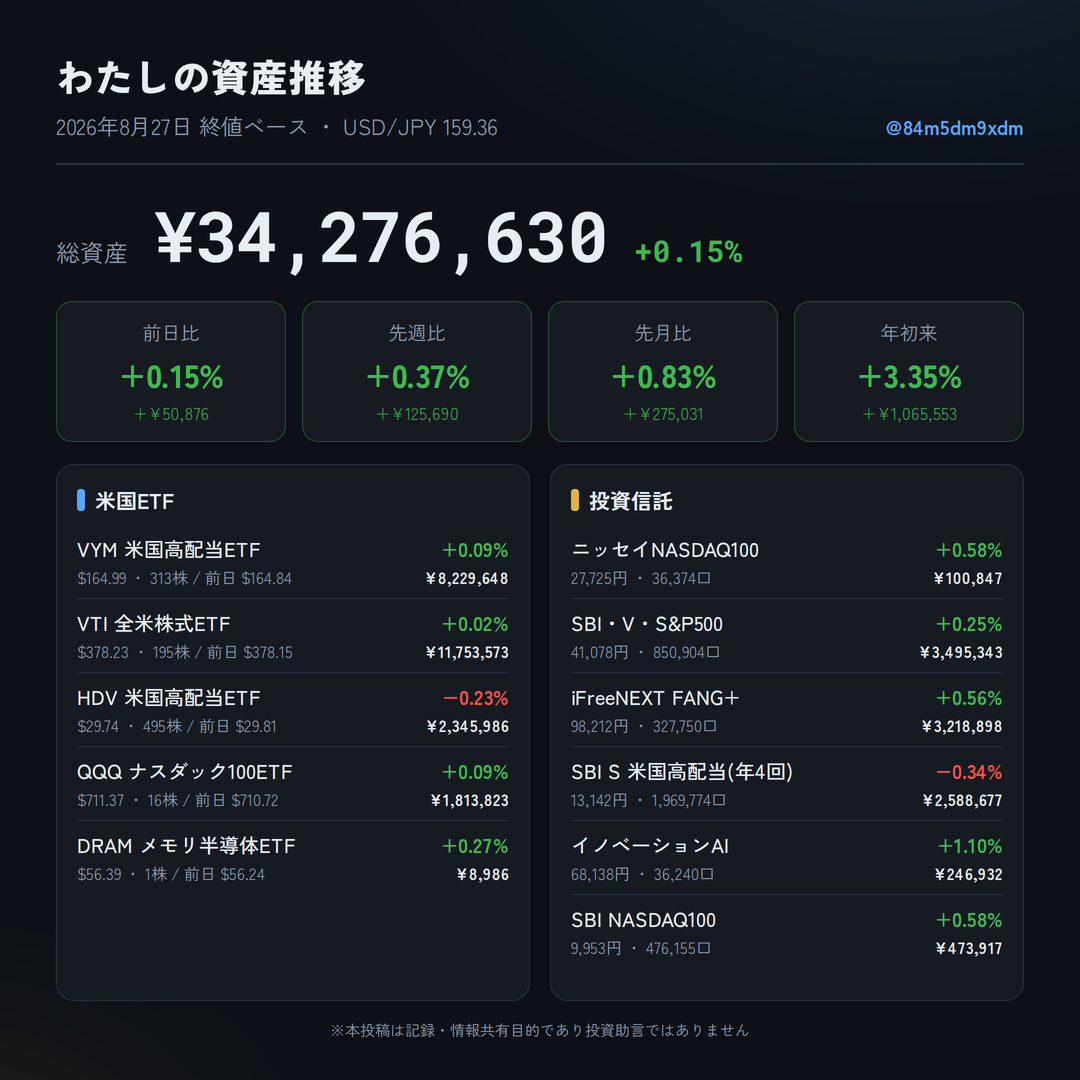
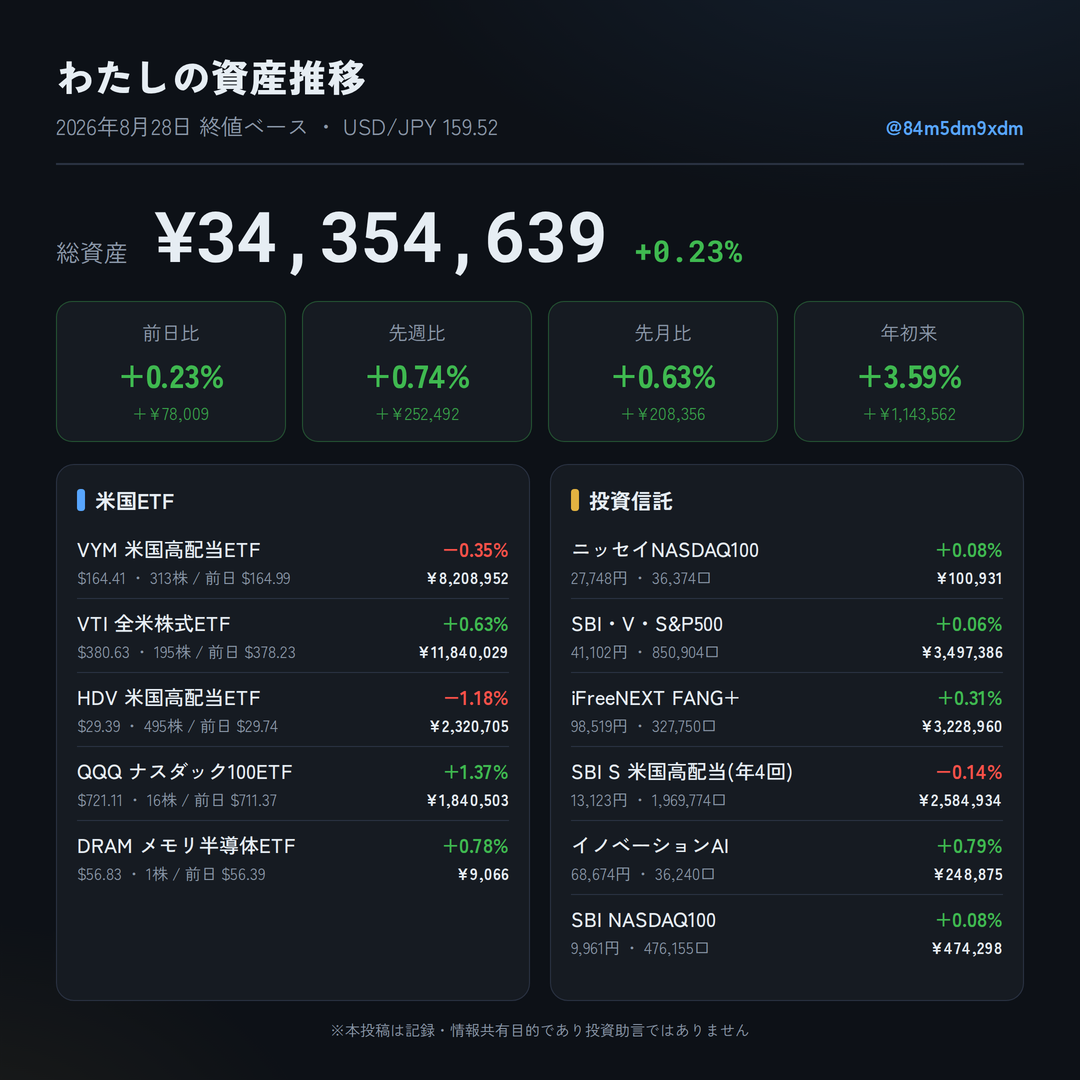
update: 2026-08-28

diff --git a/slide/allocation.html b/slide/allocation.html
@@ -54,21 +54,21 @@ footer { margin-top:18px; text-align:center; font-size:15px; color:var(--dim); }
   <header>
     <div>
       <div class="title">わたしの資産推移｜資産構成</div>
-      <div class="date">2026年8月27日 時点</div>
+      <div class="date">2026年8月28日 時点</div>
     </div>
     <div class="acct">@84m5dm9xdm</div>
   </header>
 
   <div class="total-wrap">
     <span class="total-label">総資産</span>
-    <span class="total mono">¥34,276,630</span>
+    <span class="total mono">¥34,354,639</span>
   </div>
 
   <div class="cols">
     <div class="panel cat">
       <div class="panel-h">資産タイプ別</div>
       <div class="donut-wrap">
-        <svg viewBox="0 0 300 300" xmlns="http://www.w3.org/2000/svg"><circle cx="150.0" cy="150.0" r="127.0" fill="none" stroke="#58a6ff" stroke-width="46" stroke-dasharray="562.262 235.702" stroke-dashoffset="-0.000" transform="rotate(-90 150.0 150.0)"/><circle cx="150.0" cy="150.0" r="127.0" fill="none" stroke="#e3b341" stroke-width="46" stroke-dasharray="235.702 562.262" stroke-dashoffset="-562.262" transform="rotate(-90 150.0 150.0)"/></svg>
+        <svg viewBox="0 0 300 300" xmlns="http://www.w3.org/2000/svg"><circle cx="150.0" cy="150.0" r="127.0" fill="none" stroke="#58a6ff" stroke-width="46" stroke-dasharray="562.547 235.417" stroke-dashoffset="-0.000" transform="rotate(-90 150.0 150.0)"/><circle cx="150.0" cy="150.0" r="127.0" fill="none" stroke="#e3b341" stroke-width="46" stroke-dasharray="235.417 562.547" stroke-dashoffset="-562.547" transform="rotate(-90 150.0 150.0)"/></svg>
         <div class="donut-center">
           <div class="dc-big">ETF 70%</div>
           <div class="dc-sub">投信 30%</div>
@@ -79,87 +79,87 @@ footer { margin-top:18px; text-align:center; font-size:15px; color:var(--dim); }
           <span class="dot" style="background:#58a6ff"></span>
           <span class="lg-name">米国ETF</span>
           <span class="lg-pct">70.5%</span>
-          <span class="lg-jpy">¥24,152,016</span>
+          <span class="lg-jpy">¥24,219,255</span>
         </div>
         <div class="lg">
           <span class="dot" style="background:#e3b341"></span>
           <span class="lg-name">投資信託</span>
           <span class="lg-pct">29.5%</span>
-          <span class="lg-jpy">¥10,124,614</span>
+          <span class="lg-jpy">¥10,135,384</span>
         </div>
     </div>
 
     <div class="panel sym">
       <div class="panel-h">銘柄別</div>
       <div class="donut-wrap small">
-        <svg viewBox="0 0 260 260" xmlns="http://www.w3.org/2000/svg"><circle cx="130.0" cy="130.0" r="110.0" fill="none" stroke="#58a6ff" stroke-width="40" stroke-dasharray="236.998 454.153" stroke-dashoffset="-0.000" transform="rotate(-90 130.0 130.0)"/><circle cx="130.0" cy="130.0" r="110.0" fill="none" stroke="#3fb950" stroke-width="40" stroke-dasharray="165.942 525.209" stroke-dashoffset="-236.998" transform="rotate(-90 130.0 130.0)"/><circle cx="130.0" cy="130.0" r="110.0" fill="none" stroke="#56d4dd" stroke-width="40" stroke-dasharray="70.480 620.671" stroke-dashoffset="-402.940" transform="rotate(-90 130.0 130.0)"/><circle cx="130.0" cy="130.0" r="110.0" fill="none" stroke="#79c0ff" stroke-width="40" stroke-dasharray="64.906 626.245" stroke-dashoffset="-473.419" transform="rotate(-90 130.0 130.0)"/><circle cx="130.0" cy="130.0" r="110.0" fill="none" stroke="#e3b341" stroke-width="40" stroke-dasharray="52.198 638.953" stroke-dashoffset="-538.325" transform="rotate(-90 130.0 130.0)"/><circle cx="130.0" cy="130.0" r="110.0" fill="none" stroke="#f0883e" stroke-width="40" stroke-dasharray="47.304 643.846" stroke-dashoffset="-590.523" transform="rotate(-90 130.0 130.0)"/><circle cx="130.0" cy="130.0" r="110.0" fill="none" stroke="#db61a2" stroke-width="40" stroke-dasharray="36.574 654.577" stroke-dashoffset="-637.827" transform="rotate(-90 130.0 130.0)"/><circle cx="130.0" cy="130.0" r="110.0" fill="none" stroke="#bc8cff" stroke-width="40" stroke-dasharray="9.556 681.594" stroke-dashoffset="-674.401" transform="rotate(-90 130.0 130.0)"/><circle cx="130.0" cy="130.0" r="110.0" fill="none" stroke="#58a6ff" stroke-width="40" stroke-dasharray="4.979 686.171" stroke-dashoffset="-683.957" transform="rotate(-90 130.0 130.0)"/><circle cx="130.0" cy="130.0" r="110.0" fill="none" stroke="#3fb950" stroke-width="40" stroke-dasharray="2.033 689.117" stroke-dashoffset="-688.936" transform="rotate(-90 130.0 130.0)"/><circle cx="130.0" cy="130.0" r="110.0" fill="none" stroke="#56d4dd" stroke-width="40" stroke-dasharray="0.181 690.969" stroke-dashoffset="-690.969" transform="rotate(-90 130.0 130.0)"/></svg>
+        <svg viewBox="0 0 260 260" xmlns="http://www.w3.org/2000/svg"><circle cx="130.0" cy="130.0" r="110.0" fill="none" stroke="#58a6ff" stroke-width="40" stroke-dasharray="238.199 452.951" stroke-dashoffset="-0.000" transform="rotate(-90 130.0 130.0)"/><circle cx="130.0" cy="130.0" r="110.0" fill="none" stroke="#3fb950" stroke-width="40" stroke-dasharray="165.149 526.002" stroke-dashoffset="-238.199" transform="rotate(-90 130.0 130.0)"/><circle cx="130.0" cy="130.0" r="110.0" fill="none" stroke="#56d4dd" stroke-width="40" stroke-dasharray="70.361 620.790" stroke-dashoffset="-403.348" transform="rotate(-90 130.0 130.0)"/><circle cx="130.0" cy="130.0" r="110.0" fill="none" stroke="#79c0ff" stroke-width="40" stroke-dasharray="64.961 626.190" stroke-dashoffset="-473.708" transform="rotate(-90 130.0 130.0)"/><circle cx="130.0" cy="130.0" r="110.0" fill="none" stroke="#e3b341" stroke-width="40" stroke-dasharray="52.004 639.146" stroke-dashoffset="-538.669" transform="rotate(-90 130.0 130.0)"/><circle cx="130.0" cy="130.0" r="110.0" fill="none" stroke="#f0883e" stroke-width="40" stroke-dasharray="46.688 644.462" stroke-dashoffset="-590.673" transform="rotate(-90 130.0 130.0)"/><circle cx="130.0" cy="130.0" r="110.0" fill="none" stroke="#db61a2" stroke-width="40" stroke-dasharray="37.027 654.123" stroke-dashoffset="-637.361" transform="rotate(-90 130.0 130.0)"/><circle cx="130.0" cy="130.0" r="110.0" fill="none" stroke="#bc8cff" stroke-width="40" stroke-dasharray="9.542 681.608" stroke-dashoffset="-674.389" transform="rotate(-90 130.0 130.0)"/><circle cx="130.0" cy="130.0" r="110.0" fill="none" stroke="#58a6ff" stroke-width="40" stroke-dasharray="5.007 686.143" stroke-dashoffset="-683.931" transform="rotate(-90 130.0 130.0)"/><circle cx="130.0" cy="130.0" r="110.0" fill="none" stroke="#3fb950" stroke-width="40" stroke-dasharray="2.031 689.120" stroke-dashoffset="-688.937" transform="rotate(-90 130.0 130.0)"/><circle cx="130.0" cy="130.0" r="110.0" fill="none" stroke="#56d4dd" stroke-width="40" stroke-dasharray="0.182 690.968" stroke-dashoffset="-690.968" transform="rotate(-90 130.0 130.0)"/></svg>
       </div>
       
         <div class="lg">
           <span class="dot" style="background:#58a6ff"></span>
           <span class="lg-name">VTI</span>
-          <span class="lg-pct">34.3%</span>
-          <span class="lg-jpy">¥11,753,573</span>
+          <span class="lg-pct">34.5%</span>
+          <span class="lg-jpy">¥11,840,029</span>
         </div>
         <div class="lg">
           <span class="dot" style="background:#3fb950"></span>
           <span class="lg-name">VYM</span>
-          <span class="lg-pct">24.0%</span>
-          <span class="lg-jpy">¥8,229,648</span>
+          <span class="lg-pct">23.9%</span>
+          <span class="lg-jpy">¥8,208,952</span>
         </div>
         <div class="lg">
           <span class="dot" style="background:#56d4dd"></span>
           <span class="lg-name">SBI・V・S&P500</span>
           <span class="lg-pct">10.2%</span>
-          <span class="lg-jpy">¥3,495,343</span>
+          <span class="lg-jpy">¥3,497,386</span>
         </div>
         <div class="lg">
           <span class="dot" style="background:#79c0ff"></span>
           <span class="lg-name">iFreeNEXT FANG+</span>
           <span class="lg-pct">9.4%</span>
-          <span class="lg-jpy">¥3,218,898</span>
+          <span class="lg-jpy">¥3,228,960</span>
         </div>
         <div class="lg">
           <span class="dot" style="background:#e3b341"></span>
           <span class="lg-name">SBI S 米国高配当(年4回)</span>
-          <span class="lg-pct">7.6%</span>
-          <span class="lg-jpy">¥2,588,677</span>
+          <span class="lg-pct">7.5%</span>
+          <span class="lg-jpy">¥2,584,934</span>
         </div>
         <div class="lg">
           <span class="dot" style="background:#f0883e"></span>
           <span class="lg-name">HDV</span>
           <span class="lg-pct">6.8%</span>
-          <span class="lg-jpy">¥2,345,986</span>
+          <span class="lg-jpy">¥2,320,705</span>
         </div>
         <div class="lg">
           <span class="dot" style="background:#db61a2"></span>
           <span class="lg-name">QQQ</span>
-          <span class="lg-pct">5.3%</span>
-          <span class="lg-jpy">¥1,813,823</span>
+          <span class="lg-pct">5.4%</span>
+          <span class="lg-jpy">¥1,840,503</span>
         </div>
         <div class="lg">
           <span class="dot" style="background:#bc8cff"></span>
           <span class="lg-name">SBI NASDAQ100</span>
           <span class="lg-pct">1.4%</span>
-          <span class="lg-jpy">¥473,917</span>
+          <span class="lg-jpy">¥474,298</span>
         </div>
         <div class="lg">
           <span class="dot" style="background:#58a6ff"></span>
           <span class="lg-name">イノベーションAI</span>
           <span class="lg-pct">0.7%</span>
-          <span class="lg-jpy">¥246,932</span>
+          <span class="lg-jpy">¥248,875</span>
         </div>
         <div class="lg">
           <span class="dot" style="background:#3fb950"></span>
           <span class="lg-name">ニッセイNASDAQ100</span>
           <span class="lg-pct">0.3%</span>
-          <span class="lg-jpy">¥100,847</span>
+          <span class="lg-jpy">¥100,931</span>
         </div>
         <div class="lg">
           <span class="dot" style="background:#56d4dd"></span>
           <span class="lg-name">DRAM</span>
           <span class="lg-pct">0.0%</span>
-          <span class="lg-jpy">¥8,986</span>
+          <span class="lg-jpy">¥9,066</span>
         </div>
     </div>
   </div>

diff --git a/slide/slide.html b/slide/slide.html
@@ -62,37 +62,37 @@ footer { margin-top:18px; text-align:center; font-size:15px; color:var(--dim); }
   <header>
     <div>
       <div class="title">わたしの資産推移</div>
-      <div class="date">2026年8月27日 終値ベース ・ USD/JPY 159.36</div>
+      <div class="date">2026年8月28日 終値ベース ・ USD/JPY 159.52</div>
     </div>
     <div class="acct">@84m5dm9xdm</div>
   </header>
 
   <div class="total-wrap">
     <span class="total-label">総資産</span>
-    <span class="total mono">¥34,276,630</span>
-    <span class="total-day mono up">+0.15%</span>
+    <span class="total mono">¥34,354,639</span>
+    <span class="total-day mono up">+0.23%</span>
   </div>
 
   <div class="cmps">
         <div class="cmp up">
           <div class="cmp-label">前日比</div>
-          <div class="cmp-pct">+0.15%</div>
-          <div class="cmp-jpy">+¥50,876</div>
+          <div class="cmp-pct">+0.23%</div>
+          <div class="cmp-jpy">+¥78,009</div>
         </div>
         <div class="cmp up">
           <div class="cmp-label">先週比</div>
-          <div class="cmp-pct">+0.37%</div>
-          <div class="cmp-jpy">+¥125,690</div>
+          <div class="cmp-pct">+0.74%</div>
+          <div class="cmp-jpy">+¥252,492</div>
         </div>
         <div class="cmp up">
           <div class="cmp-label">先月比</div>
-          <div class="cmp-pct">+0.83%</div>
-          <div class="cmp-jpy">+¥275,031</div>
+          <div class="cmp-pct">+0.63%</div>
+          <div class="cmp-jpy">+¥208,356</div>
         </div>
         <div class="cmp up">
           <div class="cmp-label">年初来</div>
-          <div class="cmp-pct">+3.35%</div>
-          <div class="cmp-jpy">+¥1,065,553</div>
+          <div class="cmp-pct">+3.59%</div>
+          <div class="cmp-jpy">+¥1,143,562</div>
         </div></div>
 
   <div class="cols">
@@ -102,51 +102,51 @@ footer { margin-top:18px; text-align:center; font-size:15px; color:var(--dim); }
             <div class="hold">
               <div class="hold-main">
                 <span class="hold-name">VYM 米国高配当ETF</span>
-                <span class="hold-chg up">+0.09%</span>
+                <span class="hold-chg down">−0.35%</span>
               </div>
               <div class="hold-sub">
-                <span>$164.99 ・ 313株 / 前日 $164.84</span>
-                <span class="hold-jpy">¥8,229,648</span>
+                <span>$164.41 ・ 313株 / 前日 $164.99</span>
+                <span class="hold-jpy">¥8,208,952</span>
               </div>
             </div>
             <div class="hold">
               <div class="hold-main">
                 <span class="hold-name">VTI 全米株式ETF</span>
-                <span class="hold-chg up">+0.02%</span>
+                <span class="hold-chg up">+0.63%</span>
               </div>
               <div class="hold-sub">
-                <span>$378.23 ・ 195株 / 前日 $378.15</span>
-                <span class="hold-jpy">¥11,753,573</span>
+                <span>$380.63 ・ 195株 / 前日 $378.23</span>
+                <span class="hold-jpy">¥11,840,029</span>
               </div>
             </div>
             <div class="hold">
               <div class="hold-main">
                 <span class="hold-name">HDV 米国高配当ETF</span>
-                <span class="hold-chg down">−0.23%</span>
+                <span class="hold-chg down">−1.18%</span>
               </div>
               <div class="hold-sub">
-                <span>$29.74 ・ 495株 / 前日 $29.81</span>
-                <span class="hold-jpy">¥2,345,986</span>
+                <span>$29.39 ・ 495株 / 前日 $29.74</span>
+                <span class="hold-jpy">¥2,320,705</span>
               </div>
             </div>
             <div class="hold">
               <div class="hold-main">
                 <span class="hold-name">QQQ ナスダック100ETF</span>
-                <span class="hold-chg up">+0.09%</span>
+                <span class="hold-chg up">+1.37%</span>
               </div>
               <div class="hold-sub">
-                <span>$711.37 ・ 16株 / 前日 $710.72</span>
-                <span class="hold-jpy">¥1,813,823</span>
+                <span>$721.11 ・ 16株 / 前日 $711.37</span>
+                <span class="hold-jpy">¥1,840,503</span>
               </div>
             </div>
             <div class="hold">
               <div class="hold-main">
                 <span class="hold-name">DRAM メモリ半導体ETF</span>
-                <span class="hold-chg up">+0.27%</span>
+                <span class="hold-chg up">+0.78%</span>
               </div>
               <div class="hold-sub">
-                <span>$56.39 ・ 1株 / 前日 $56.24</span>
-                <span class="hold-jpy">¥8,986</span>
+                <span>$56.83 ・ 1株 / 前日 $56.39</span>
+                <span class="hold-jpy">¥9,066</span>
               </div>
             </div>
     </div>
@@ -156,61 +156,61 @@ footer { margin-top:18px; text-align:center; font-size:15px; color:var(--dim); }
             <div class="hold">
               <div class="hold-main">
                 <span class="hold-name">ニッセイNASDAQ100</span>
-                <span class="hold-chg up">+0.58%</span>
+                <span class="hold-chg up">+0.08%</span>
               </div>
               <div class="hold-sub">
-                <span>27,725円 ・ 36,374口</span>
-                <span class="hold-jpy">¥100,847</span>
+                <span>27,748円 ・ 36,374口</span>
+                <span class="hold-jpy">¥100,931</span>
               </div>
             </div>
             <div class="hold">
               <div class="hold-main">
                 <span class="hold-name">SBI・V・S&P500</span>
-                <span class="hold-chg up">+0.25%</span>
+                <span class="hold-chg up">+0.06%</span>
               </div>
               <div class="hold-sub">
-                <span>41,078円 ・ 850,904口</span>
-                <span class="hold-jpy">¥3,495,343</span>
+                <span>41,102円 ・ 850,904口</span>
+                <span class="hold-jpy">¥3,497,386</span>
               </div>
             </div>
             <div class="hold">
               <div class="hold-main">
                 <span class="hold-name">iFreeNEXT FANG+</span>
-                <span class="hold-chg up">+0.56%</span>
+                <span class="hold-chg up">+0.31%</span>
               </div>
               <div class="hold-sub">
-                <span>98,212円 ・ 327,750口</span>
-                <span class="hold-jpy">¥3,218,898</span>
+                <span>98,519円 ・ 327,750口</span>
+                <span class="hold-jpy">¥3,228,960</span>
               </div>
             </div>
             <div class="hold">
               <div class="hold-main">
                 <span class="hold-name">SBI S 米国高配当(年4回)</span>
-                <span class="hold-chg down">−0.34%</span>
+                <span class="hold-chg down">−0.14%</span>
               </div>
               <div class="hold-sub">
-                <span>13,142円 ・ 1,969,774口</span>
-                <span class="hold-jpy">¥2,588,677</span>
+                <span>13,123円 ・ 1,969,774口</span>
+                <span class="hold-jpy">¥2,584,934</span>
               </div>
             </div>
             <div class="hold">
               <div class="hold-main">
                 <span class="hold-name">イノベーションAI</span>
-                <span class="hold-chg up">+1.10%</span>
+                <span class="hold-chg up">+0.79%</span>
               </div>
               <div class="hold-sub">
-                <span>68,138円 ・ 36,240口</span>
-                <span class="hold-jpy">¥246,932</span>
+                <span>68,674円 ・ 36,240口</span>
+                <span class="hold-jpy">¥248,875</span>
               </div>
             </div>
             <div class="hold">
               <div class="hold-main">
                 <span class="hold-name">SBI NASDAQ100</span>
-                <span class="hold-chg up">+0.58%</span>
+                <span class="hold-chg up">+0.08%</span>
               </div>
               <div class="hold-sub">
-                <span>9,953円 ・ 476,155口</span>
-                <span class="hold-jpy">¥473,917</span>
+                <span>9,961円 ・ 476,155口</span>
+                <span class="hold-jpy">¥474,298</span>
               </div>
             </div>
     </div>
